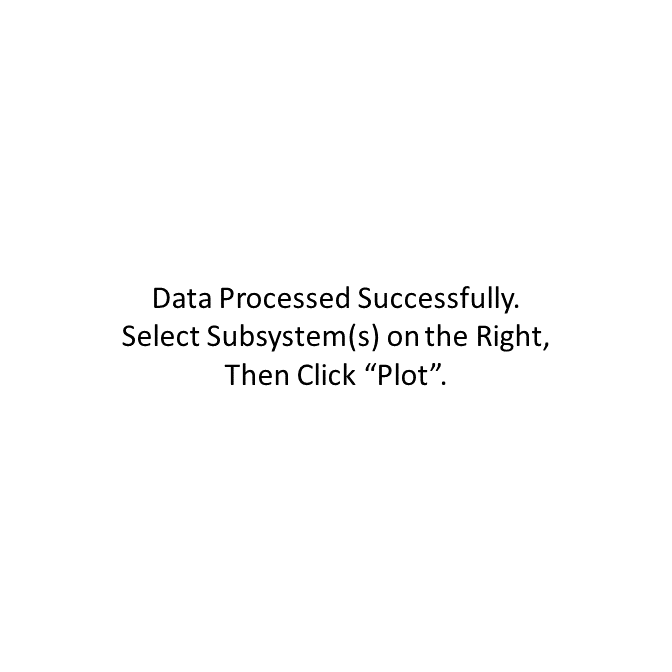
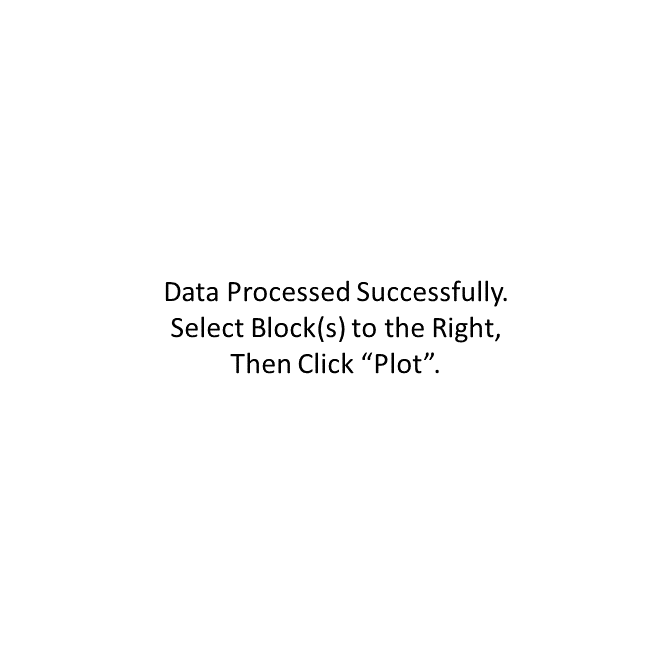
Final reworks, documentation

Changed region(s): [[0.1875, 0.4062, 0.8125, 0.5938]]

diff --git a/Frontend/SEAQT_GUI.py b/Frontend/SEAQT_GUI.py
@@ -1569,8 +1569,6 @@ class SEAQTGui():
 
         # Run the backend (NOTE: blocking)
         try:
-            self.update_plot(PlotNumber.DATA_PROCESSING.value)
-
             if run_type == RunType.ELECTRON.value:
                 self.backend.run_seaqt_electron_only()
             elif run_type == RunType.PHONON.value:

diff --git a/README.md b/README.md
@@ -2,32 +2,50 @@
 
 SEAQT framework/code provides a general thermodynamically rigorous determination of the equation of motion for nonequilibrium system state evolution. Utilizing the development of hypoequilibrium states and the density of state method for electrons and phonons, SEAQT can be applied from a practical standpoint at all temporal and spatial scales. This allows for a comprehensive evaluation of material properties (electrical conductivity, thermal conductivity, etc.) that current alternative methods cannot fully address.
 
-Further discussion can be found in `Introduction.pdf`.
+Further discussion can be found in the file `Introduction.pdf`.
+
 
 ---
 
+### Table of Contents
+
+- [Changelog](#changelog)
+- [Setup & Installation](#setup--installation)
+    - [1. Download via Github](#1-download-via-github)
+    - [2. Verify Python Version](#2-verify-python-version)
+    - [3. Install Dependencies](#3-install-dependencies)
+    - [4. Install MATLAB Engine for Python](#4-install-matlab-engine-for-python)
+    - [5. Invocation](#5-invocation)
+- [Running & Example Data](#running--example-data)
+    - [Home Screen](#home-screen)
+    - [New Runs](#new-runs)
+    - [Plotting](#plotting)
+    - [Export Plots](#export-plots)
+    - [Save & Load Runs](#save--load-runs)
+    - [Other Functionality](#other-functionality)
+- [Frequently Asked Questions (FAQs)](#frequently-asked-questions-faqs)
+
+---
 
 ### Changelog
 | Version |   Date   |        Notes       |
 | :-----: | :------: | :----------------: |
-|   1.0   | 03.23.23 | First Full Release |
+|   1.0   | 05.05.23 | First Full Release |
 
 ---
 
 
-### Run SEAQT GUI from Source
+### Setup & Installation
 
-#### Download via GitHub
-Clone the repository using the following command:
+#### 1. Download via GitHub
+If needed, install the latest versions of git [here](https://git-scm.com/downloads). Clone the repository using the following command:
 ```
 git clone https://github.com/azsprague/seaqt-gui
 ```
-Install the latest versions of git [here](https://git-scm.com/downloads).
-
 Alternatively, the code can be downloaded as a `zip` file by selecting `Code -> Download ZIP` or by clicking [here](https://github.com/azsprague/seaqt-gui/archive/refs/heads/main.zip).
 
 
-#### Verify Python Version
+#### 2. Verify Python Version
 Python >= 3.6 is required. You can check your python version using the following command:
 ```
 python --version
@@ -35,14 +53,14 @@ python --version
 Install the latest versions of python [here](https://www.python.org/downloads/).
 
 
-#### Install Dependencies
-Install required python packages using the following command:
+#### 3. Install Dependencies
+Ensure you are in the directory containing the SEAQT GUI code (i.e., `cd seaqt-gui`). Install the required python packages using the following command:
 ```
 pip install -r requirements.txt
 ```
 
 
-#### Install MATLAB Engine for Python
+#### 4. Install MATLAB Engine for Python
 To use SEAQT GUI with the MATLAB backend, you must first install the MATLAB engine for Python:
 ```
 # Find your MATLAB root directory. This can be done in MATLAB using the command 'matlabroot'
@@ -59,9 +77,64 @@ python setup.py install
 Official installation instructions from MATLAB can be found [here](https://www.mathworks.com/help/matlab/matlab_external/install-the-matlab-engine-for-python.html).
 
 
-#### Usage
+#### 5. Invocation
 The following command will start a standard interactive session:
 ```
 python SEAQT.py
 ```
 Use the `--help` flag for more usage information.
+
+
+---
+
+### Running & Example Data
+
+#### Home Screen
+After invoking SEAQT GUI, you will be greeted by the home screen. Here you have the option to perform a new run or load data from a previous run.
+
+![Home Screen](Figures/Home%20Screen.png)
+
+
+#### New Runs
+When inputting data for a new run, make sure all fields not labeled "optional" are filled. The directory `Example Data` contains both sample input files and parameters; these can be automatically imported by clicking the `Import Default Data and Parameters` button.
+
+After clicking "Run", the SEAQT backend will begin processing all data files and parameters. **During this time the GUI may seem unresponsive, but it *is* working**. Depending on you run length and type, this process may take a long time (and significant system resources).
+
+![New Run](Figures/New%20Run.png)
+
+
+#### Plotting
+After processing (or loading, discussed later) data, several graphs can be generated. The specific blocks to be plotted must be selected on the bottom right side, then clicking the `Plot` button will generate the plots (**this may take a few seconds**).
+
+![Plotting 1](Figures/Plotting%201.png)
+
+When the plotting is complete, you can select which plot to display by clicking on the radio buttons on the top right side. If you'd like to replot using different blocks, simply select the blocks you'd like to plot and click the `Plot` button again.
+
+![Plotting 2](Figures/Plotting%202.png)
+
+
+#### Export Plots
+If you would like to save the plots you've generated, click the `Export` button to open a window to select a destination and which plots to export. Plots will be named as "PlotName_Timestamp.png" by default.
+
+![Save Plots](Figures/Save%20Plots.png)
+
+
+#### Save & Load Runs
+SEAQT runs can be saved and loaded by using the `Save` and `Load` buttons, respectively. This was created to save time for subsequent runs. The file format is a `.zip` archive containing data produced from the backend along with the parameters inputted to the GUI.
+
+
+#### Other Functionality
+The `Reset` button will delete any generated data and return all input parameters to their default value. The `Help` button will direct you to this Git repo. The `Exit` button will close the GUI.
+
+
+---
+
+### Frequently Asked Questions (FAQs)
+Q. *The GUI is not responding to inputs and says "Not Responding" at the top?*
+A. This is likely because the SEAQT backend is currently running. Depending on your inputted run length and type, this process may take a while.
+
+Q. *The SEAQT backend completed but states the data may be corrupted / the plots are empty?*
+A. Many times this can occur when the run length is not sufficiently long enough. Try running with a longer run length or switch to `Max(tau)` instead of `Min(tau)`. If the problem persists, please create a ticket at [here](https://github.com/azsprague/seaqt-gui/issues).
+
+Q. *When I run the SEAQT backend with a large run length, my system slows down significantly?*
+A. The longer the run length, the more RAM / memory the SEAQT backend will require, which can lead to a slowing-down of your system.
